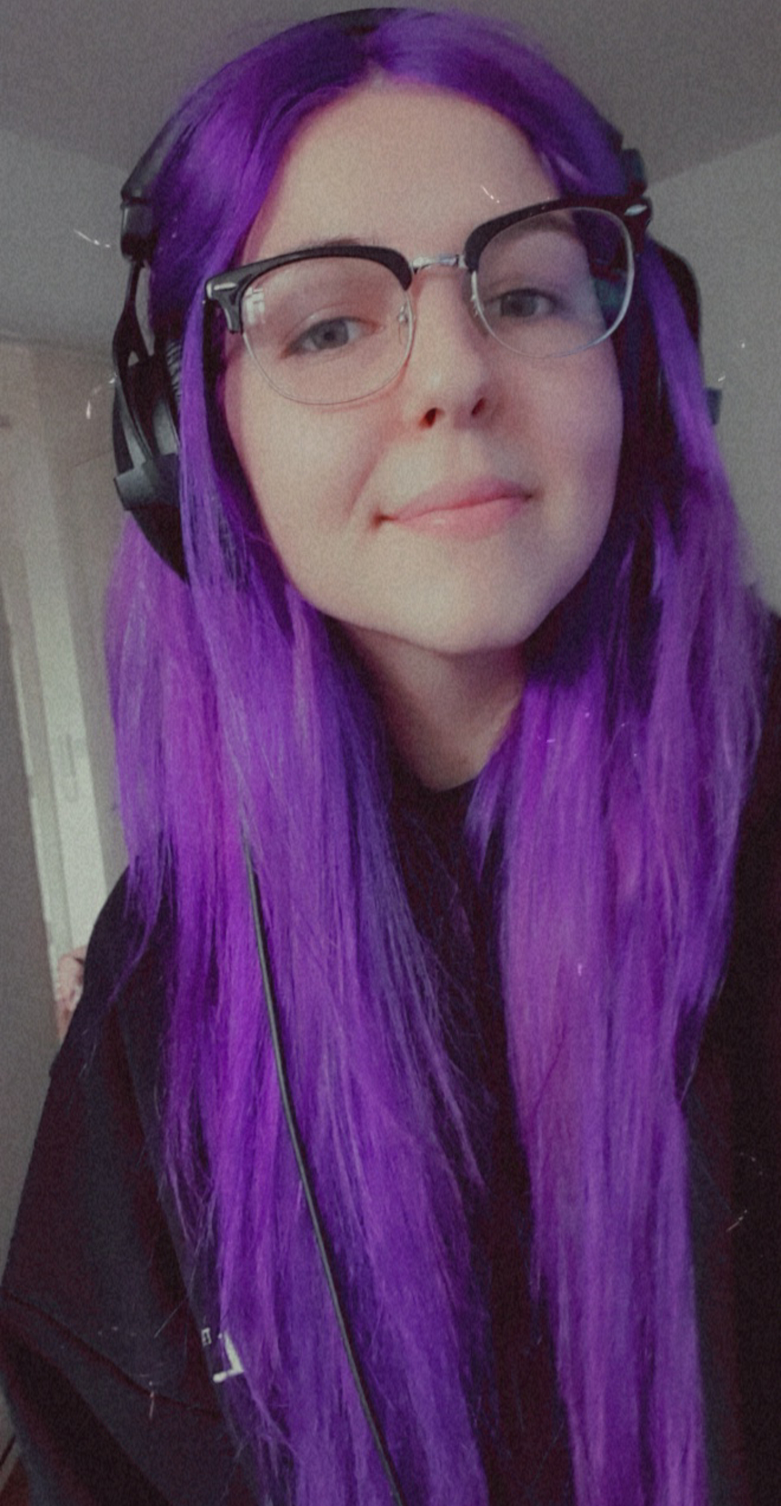
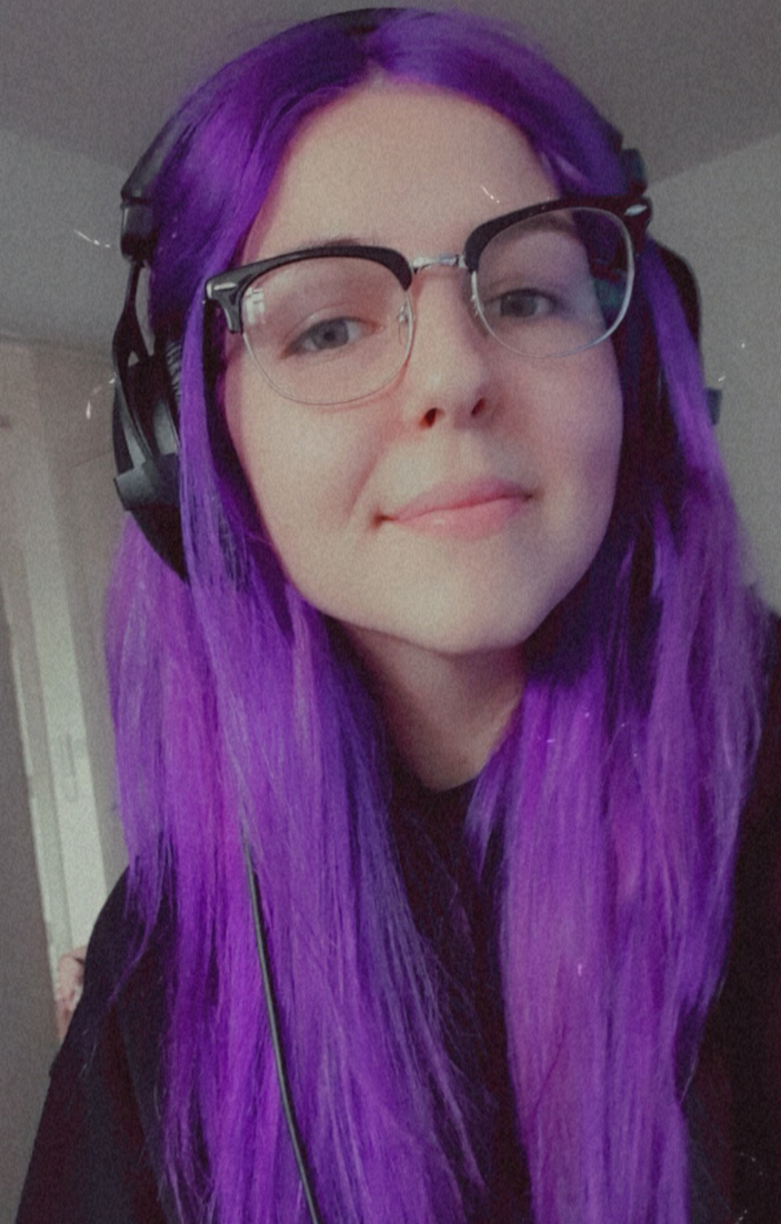
Changes to about page

diff --git a/_sass/_components.scss b/_sass/_components.scss
@@ -125,8 +125,8 @@
 
 // Photo in About page
 .me {
-  width: 6.5rem;
-  border-radius: 100%;
+  width: 10.5rem;
+  //border-radius: 100%;
   position: relative;
 }
 @media (max-width: 50em) {
